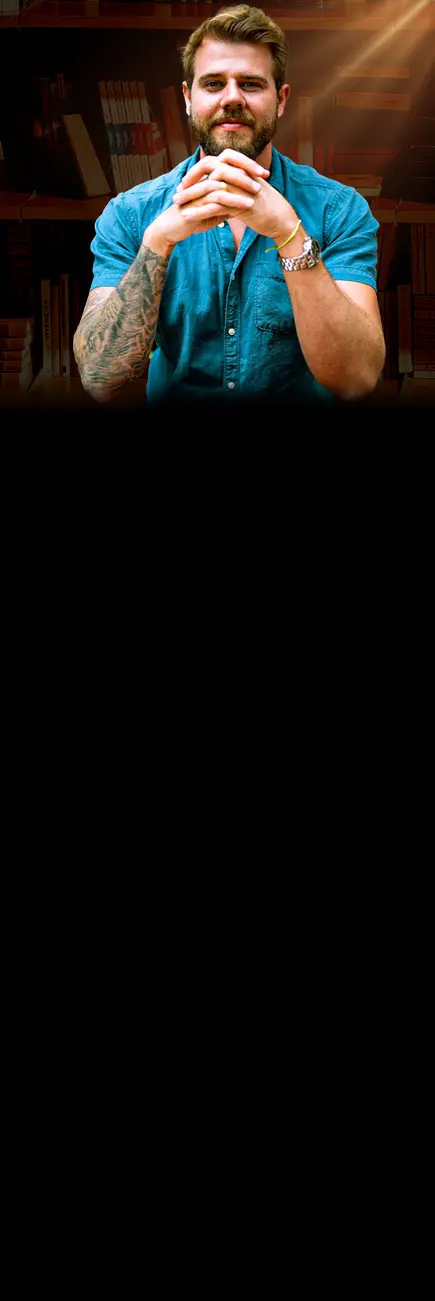
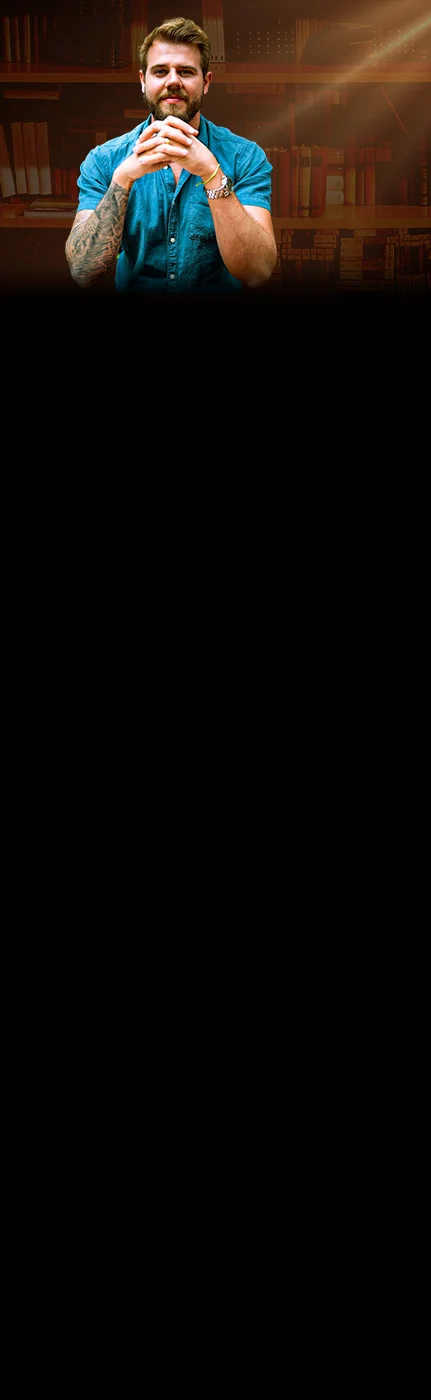
multiple-fixes

Changed region(s): [[0.0, 0.0, 1.0, 0.3075]]

diff --git a/index.html b/index.html
@@ -7,7 +7,7 @@
   <meta name="viewport" content="width=device-width, initial-scale=1.0">
   <title>Vença sua dependência emocional</title>
 
-  <link rel="stylesheet" href="css/style.min.css">
+  <link rel="stylesheet" href="css/style.css">
 
   <link href="https://tcharlles.dev/captura-dependencia/img/bg-1.webp" rel="preload" as="image" media="(min-width: 1440px)">
   <link href="https://tcharlles.dev/captura-dependencia/img/bg-1-1440.webp" rel="preload" as="image" media="(max-width: 1440px)">
@@ -24,8 +24,11 @@
 <body>
   <article class="inicio-bg">
     <div id="inicio" class="inicio container">
+      <img class="logo" src="img/icons/logo-vetor.svg" alt="">
       <h1 class="font-h1 c2">Vença a dependência emocional</h1>
-      <p class="font-p1 c2">Você tem medo de acabar só? Receio de terminar uma relação e nunca mais encontrar alguém bacana? Sente um desconforto no peito quando pensa em ver alguém que você se relaciona partindo?</p>
+      <p class="font-p1 c2">Você tem medo de acabar só?</p>
+      <p class="font-p1 c2">Receio de terminar uma relação e nunca mais encontrar alguém bacana?</p>
+      <p class="font-p1 c2">Sente um desconforto no peito quando pensa em ver alguém que você se relaciona partindo?</p>
       <span class="font-p2 evento c2"><img src="img/icons/check.svg" alt="">Esse evento é para você!</span>
       <div class="inicio-detalhes">
         <span class="data font-p1-xs c2"><img src="img/icons/calendario.svg" alt="">Data: 21/06/2022 às 20:00</span>
@@ -64,15 +67,15 @@
   <section class="who-bg">
     <div class="who container">
       <div class="who-text">
-        <h1 class="font-h1 c2">Para quem é esse evento?</h1>
+        <h1 class="font-h1 c1">Para quem é esse evento?</h1>
         <div class="who-box">
-          <p class="font-p1 c2">Se você...</p>
-          <p class="font-p1 c2">Tem disposição para aprender sobre relacionamentos, busca constantemente o <b>aperfeiçoamento pessoal</b> e tem pago o preço pelo amadurecimento mas mesmo assim parece que só escolhe tranqueira para se relacionar?</p>
-          <span class="font-p2 evento c2"><img src="img/icons/check.svg" alt="">Esse evento é para você!</span>
-          <p class="font-p1 c2">Vem de uma infância emocionalmente difícil, foi criado (a) dentro de um <b>lar instável</b> e passou muito tempo lidando com <b>autoestima baixa</b> e a sensação de rejeição?</p>
-          <span class="font-p2 evento c2"><img src="img/icons/check.svg" alt="">Esse evento é para você!</span>
+          <p class="font-p1 c1">Se você...</p>
+          <p class="font-p1 c1">Tem disposição para aprender sobre relacionamentos, busca constantemente o <b>aperfeiçoamento pessoal</b> e tem pago o preço pelo amadurecimento mas mesmo assim parece que só escolhe tranqueira para se relacionar?</p>
+          <span class="font-p2 evento c1"><img src="img/icons/check.svg" alt="">Esse evento é para você!</span>
+          <p class="font-p1 c1">Vem de uma infância emocionalmente difícil, foi criado (a) dentro de um <b>lar instável</b> e passou muito tempo lidando com <b>autoestima baixa</b> e a sensação de rejeição?</p>
+          <span class="font-p2 evento c1"><img src="img/icons/check.svg" alt="">Esse evento é para você!</span>
         </div>
-        <div class="who-not">
+        <div class="who-not c1">
           <p>Mas...<br>
             Se mesmo tento identificação com todos esses padrões acima você acha que <b>"já sabe o suficiente"</b>, <b>"fez terapia o bastante"</b> e não está disposto (a) à olhar para a vida e para os relacionamentos de outra maneira, por favor, <b>não compareça</b>.</p>
           <p>O evento <b>não</b> é feita para aqueles que adoram assumir o papel de vítima, colocando a responsabilidade pela própria vida nas mãos de outras pessoas.</p>
@@ -116,4 +119,5 @@
     <p class="font-p1-xs">Copyright © 2022 Andre Mariga</p>
   </footer>
 </body>
+
 </html>

diff --git a/css/secao1.css b/css/secao1.css
@@ -3,20 +3,18 @@
   background-repeat: no-repeat;
   background-position: top;
   background-size: cover;
-  height: 790px;
+  height: 998px;
 }
-
 .logo {
-  padding: 100px 0 20px 0;
+  padding-top: 40px;
 }
-
 .inicio h1 {
   margin-bottom: 12px;
-  padding-top: 40px;
+  padding-top: 32px;
   max-width: 560px;
 }
 .inicio > p {
-  margin-bottom: 20px;
+  margin-bottom: 8px;
   max-width: 500px;
 }
 
@@ -51,7 +49,7 @@
 
 form input {
   height: 50px;
-  width: 400px;
+  width: 340px;
   background: #dedede;
   border-radius: 4px;
   padding: 10px 20px;
@@ -73,27 +71,18 @@ form input {
   margin-left: 60px;
 }
 
-@media (max-width: 1440px) {
-  .inicio-bg {
-    background-image: url("../img/bg-1-1440.webp");
-  }
-}
-@media (max-width: 1024px) {
-  .inicio-bg {
-    background-image: url("../img/bg-1-1024.webp");
-  }
-}
-
 @media (max-width: 800px) {
   .inicio-bg {
     background-image: url("../img/bg-1-800.webp");
-    height: 1100px;
+    height: 1300px;
+    background-position: left;
+  }
+  .logo {
+    padding-top: 370px;
   }
   .inicio h1 {
-    padding-top: 370px;
     line-height: 1.2;
   }
-
   .dados-seguros {
     margin-left: 0px;
   }
@@ -103,19 +92,31 @@ form input {
   .inicio-bg {
     background-image: url("../img/bg-1-435.webp");
     height: 1300px;
+    background-position: top;
   }
-
+  .logo {
+    padding-top: 280px;
+    max-width: 280px;
+  }
   .inicio h1 {
     font-size: 2rem;
   }
-
   .inicio-detalhes {
     gap: 10px;
+  }
+  .btn-form {
+    width: 100%;
+  }
+}
+
+@media (max-width: 375px) {
+  .btn-form {
+    font-size: 1.25rem;
   }
 }
 
 @media (max-width: 320px) {
   .btn-form {
-    font-size: 1.125rem;
+    font-size: 1.15rem;
   }
 }

diff --git a/css/componentes.css b/css/componentes.css
@@ -5,14 +5,30 @@
 }
 
 .btn {
-  background-color: #FF0143;
-  padding: 12px 24px;
-  color: #121212;
+  background-image: linear-gradient(139deg, rgba(37,211,102,1) 24%, rgba(0,255,25,1) 50%, rgba(37,211,102,1) 80%);
+  color: #000000;
+  font: 700 1.25rem/1.5 "Montserrat", sans-serif;
+  background-color: transparent;
+  padding: 10px 20px;
   border-radius: 4px;
-  max-width: 320px;
+  max-width: 360px;
   display: block;
   text-align: center;
   cursor: pointer;
+  text-transform: uppercase;
+  overflow: hidden;
+  background-position: 0 0;
+  background-size: 400% 200%;
+  animation: textura 4s cubic-bezier(0.2, 0.5, 0.9, 0.6) 2s infinite;
+  transition: background 1.6s cubic-bezier(0.55, 0.1, 0.47, 0.94);
+}
+@keyframes textura {
+  from {
+    background-position: 0 0;
+  }
+  to {
+    background-position: 100% 0;
+  }
 }
 
 .evento {

diff --git a/css/secao2.css b/css/secao2.css
@@ -1,5 +1,5 @@
 .who-bg {
-  background-color: #0f0f0f;
+  background-color: #fff;
   /* background-image: url("../img/Mockup.png");
   background-repeat: no-repeat;
   background-position: 80%; */
@@ -15,15 +15,16 @@
 }
 
 .who h1 {
-  padding-top: 60px;
+  padding-top: 40px;
 }
 
 .who-box {
-  background-color: #000;
+  background-color: #fff;
   max-width: 660px;
   padding: 40px;
   border-radius: 5px;
   margin-top: 40px;
+  box-shadow: 0px 0px 20px 4px rgba(0, 0, 0, 0.15);
 }
 
 .who-box p {

diff --git a/css/tipografia.css b/css/tipografia.css
@@ -1,5 +1,5 @@
 .font-h1 {
-  font: 700 2.5rem/1.5 "Montserrat", sans-serif;
+  font: 700 2.5rem/1.25 "Montserrat", sans-serif;
   letter-spacing: 0.02em;
 }
 
